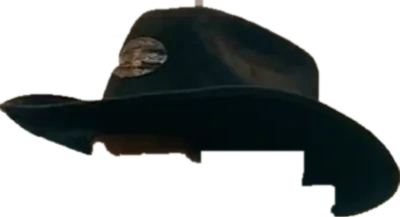
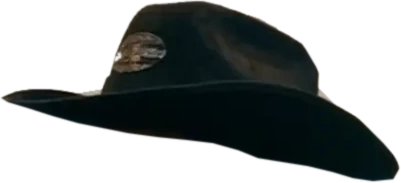
Beethoven: Hut mit glatter, vollständiger Kontur aus dem Film; Öffnungszeiten als Wochenübersicht (Montag bis Samstag, Sonntag)
Claude-Session: https://claude.ai/code/session_016LEtCX8K6LrUt1tXMGLenz

diff --git a/beethoven/index.html b/beethoven/index.html
@@ -69,11 +69,10 @@
 <!-- Spielplan: die Öffnungszeiten von heute -->
 <div class="spielplan" id="spielplan" role="dialog" aria-label="Öffnungszeiten heute" aria-hidden="true">
   <button class="sp-zu" id="sp-zu" type="button" aria-label="Spielplan schließen">✕</button>
-  <div class="sp-kopf">Spielplan · <span id="sp-tag">heute</span></div>
-  <div class="sp-zeit" id="sp-zeit">9 – 19 Uhr</div>
+  <div class="sp-kopf">Spielplan · Öffnungszeiten</div>
+  <ul class="sp-plan" id="sp-plan"><li data-tage="1,2,3,4,5,6"><span>Montag bis Samstag</span><b>9 – 19 Uhr</b></li><li data-tage="0"><span>Sonntag</span><b>Ruhetag</b></li></ul>
   <div class="sp-status" id="sp-status"><i></i><span>…</span></div>
   <div class="sp-tagbahn" aria-hidden="true"><span>9</span><div class="sp-bahn"><b id="sp-fuell"></b><i id="sp-jetzt"></i></div><span>19</span></div>
-  <ol class="sp-woche" id="sp-woche" aria-label="Wochenplan"></ol>
   <div class="sp-knoepfe">
     <a class="knopf voll" href="tel:+4968168629267">☎ Jetzt anrufen</a>
     <a class="knopf" href="https://www.google.com/maps/dir/?api=1&amp;destination=Beethoven+Barbershop+Dudweilerstra%C3%9Fe+53+66111+Saarbr%C3%BCcken" target="_blank" rel="noopener">Route</a>
@@ -89,7 +88,7 @@
 </div>
 
 <!-- Der Hut von Mr Fresh fällt durch die ganze Seite -->
-<button class="hut-reise" id="hut-reise" type="button" aria-label="Hut ab! Der Hut von Mr Fresh"><img id="hut-a" src="medien/foto/hut-film.webp" alt="" width="400" height="217"><img id="hut-b" src="medien/foto/hut-b.webp" alt="" width="700" height="420"></button>
+<button class="hut-reise" id="hut-reise" type="button" aria-label="Hut ab! Der Hut von Mr Fresh"><img id="hut-a" src="medien/foto/hut-film.webp" alt="" width="401" height="183"><img id="hut-b" src="medien/foto/hut-b.webp" alt="" width="700" height="420"></button>
 
 <main id="start">
 
@@ -372,13 +371,8 @@
           <div class="besuch-status" id="besuch-status"><i></i><span>…</span></div>
           <div class="adresse">Dudweilerstraße 53<br>66111 Saarbrücken</div>
           <ul class="zeiten" id="zeiten">
-            <li data-tag="1"><span>Montag</span><span>9–19 Uhr</span></li>
-            <li data-tag="2"><span>Dienstag</span><span>9–19 Uhr</span></li>
-            <li data-tag="3"><span>Mittwoch</span><span>9–19 Uhr</span></li>
-            <li data-tag="4"><span>Donnerstag</span><span>9–19 Uhr</span></li>
-            <li data-tag="5"><span>Freitag</span><span>9–19 Uhr</span></li>
-            <li data-tag="6"><span>Samstag</span><span>9–19 Uhr</span></li>
-            <li data-tag="0"><span>Sonntag</span><span>geschlossen</span></li>
+            <li data-tage="1,2,3,4,5,6"><span>Montag bis Samstag</span><span>9–19 Uhr</span></li>
+            <li data-tage="0"><span>Sonntag</span><span>Ruhetag</span></li>
           </ul>
           <div class="merkmale"><span>Mit und ohne Termin</span><span>Kartenzahlung</span><span>Kinderfreundlich</span><span>Rollstuhlgerechter Eingang</span></div>
           <div class="knoepfe">

diff --git a/beethoven/js/b.js b/beethoven/js/b.js
@@ -78,20 +78,19 @@ function lage(){
 }
 var sp=$('#spielplan'),spOffen=false,spAutoZu=null;
 (function baueWoche(){
-  var ol=$('#sp-woche');if(!ol)return;var reihe=[1,2,3,4,5,6,0];
-  reihe.forEach(function(t){var li=document.createElement('li');li.dataset.tag=t;li.setAttribute('aria-label',TAGE[t]+': '+(ZEITEN[t]?uhr(ZEITEN[t][0])+' bis '+uhr(ZEITEN[t][1]):'Ruhetag'));if(!ZEITEN[t])li.className='pause';li.innerHTML='<span>heute</span><b></b>';ol.appendChild(li)});
-  var tx=document.createElement('div');tx.className='sp-wochentext';tx.textContent='Montag bis Samstag 9 bis 19 Uhr · Sonntag Ruhetag';ol.after(tx);
+  /* auf den ersten Blick die ganze Woche: gleiche Zeiten werden zusammengefasst („Montag bis Samstag“) */
+  var reihe=[1,2,3,4,5,6,0],gruppen=[];
+  reihe.forEach(function(t){var z=ZEITEN[t],k=z?z.join('-'):'zu',g=gruppen[gruppen.length-1];if(g&&g.k===k)g.tage.push(t);else gruppen.push({k:k,z:z,tage:[t]})});
+  var html=gruppen.map(function(g){var n=g.tage.length>1?TAGE[g.tage[0]]+' bis '+TAGE[g.tage[g.tage.length-1]]:TAGE[g.tage[0]];return '<li data-tage="'+g.tage.join(',')+'"><span>'+n+'</span><b>'+(g.z?uhr(g.z[0]).replace(' Uhr','')+' – '+uhr(g.z[1]):'Ruhetag')+'</b></li>'}).join('');
+  var pl=$('#sp-plan');if(pl)pl.innerHTML=html;
 })();
 function zeitenMalen(){
   var L=lage(),b=L.b;
-  $('#sp-tag').textContent=TAGE[b.tag];
-  $('#sp-zeit').textContent=L.z?uhr(L.z[0]).replace(' Uhr','')+' – '+uhr(L.z[1]):'Ruhetag';
   [['#sp-status',L.lang],['#besuch-status',L.lang],['#status-pille',L.pille],['#leiste-status',L.kurz]].forEach(function(p){var el=$(p[0]);if(!el)return;el.classList.toggle('ja',L.auf);el.lastElementChild.textContent=p[1]});
   var fuell=L.z?klemm((b.min-L.z[0])/(L.z[1]-L.z[0]),0,1):0;
   if(spOffen){$('#sp-fuell').style.width=(fuell*100)+'%';$('#sp-jetzt').style.left=(fuell*100)+'%'}
   $('#sp-jetzt').style.opacity=L.auf?1:.35;
-  $$('#sp-woche li').forEach(function(li){li.classList.toggle('heute',+li.dataset.tag===b.tag)});
-  $$('#zeiten li').forEach(function(li){li.classList.toggle('heute',+li.dataset.tag===b.tag)});
+  $$('#sp-plan li,#zeiten li').forEach(function(li){li.classList.toggle('heute',(li.dataset.tage||'').split(',').indexOf(String(b.tag))>=0)});
   sp._fuell=fuell;
 }
 zeitenMalen();setInterval(zeitenMalen,30000);
@@ -233,8 +232,8 @@ function punkteLauf(st){
 })();
 
 /* ===================== Der Hut von Mr Fresh reist durch die Seite ===================== */
-var HUT={el:$('#hut-reise'),ziele:[],klick:-9e9,feier:-9e9,blase:null,zuletzt:'',asp:217/400};
-var HUT_IM_FILM={x:.73485,y:.2024,w:.2083}; /* Lage des echten Huts im letzten Bild der „Neunten“ (Ausschnitt hut-film.webp) */
+var HUT={el:$('#hut-reise'),ziele:[],klick:-9e9,feier:-9e9,blase:null,zuletzt:'',asp:183/401};
+var HUT_IM_FILM={x:.7357,y:.1754,w:.2089}; /* Lage des echten Huts im letzten Bild der „Neunten“ (Ausschnitt hut-film.webp) */
 function hutGroesse(){return klemm(innerWidth*.08,64,120)*(innerWidth<520?.9:1)}
 function hutZiele(){
   var z=[];

diff --git a/beethoven/css/b.css b/beethoven/css/b.css
@@ -393,7 +393,7 @@ h2 em,h1 em{font-style:italic;color:var(--gold-hell)}
 .zeiten{list-style:none;padding:0;margin:20px 0 0;max-width:440px}
 .zeiten li{display:flex;justify-content:space-between;padding:10px 0;border-bottom:1px solid var(--linie);font-variant-numeric:tabular-nums}
 .zeiten li.heute{color:var(--gold-hell);font-weight:600}
-.zeiten li.heute span:first-child::after{content:" · heute";color:var(--gold);font-weight:400}
+
 .merkmale{display:flex;flex-wrap:wrap;gap:8px;margin-top:20px}
 .merkmale span{border:1px solid var(--linie);border-radius:999px;padding:6px 12px;font-size:14px;color:var(--rauch)}
 .karte-platz{aspect-ratio:4/3;border:1px solid var(--linie);border-radius:4px;display:grid;place-items:center;text-align:center;padding:24px;background:linear-gradient(135deg,var(--lack-2),var(--bordeaux-tief))}
@@ -577,3 +577,16 @@ body{position:relative}
   .foyer-knoepfe{gap:8px;margin-top:12px}
   .foyer-knoepfe .knopf{padding:10px 13px;font-size:13px}
 }
+
+.sp-plan{list-style:none;margin:10px 0 0;padding:0;display:grid;gap:2px}
+.sp-plan li{display:flex;justify-content:space-between;align-items:baseline;gap:14px;padding:7px 0;border-bottom:1px solid var(--linie);font-family:var(--display);font-size:21px;color:var(--creme)}
+.sp-plan li b{font-weight:500;color:var(--gold-hell);font-variant-numeric:lining-nums;white-space:nowrap}
+.sp-plan li span{display:inline-flex;align-items:center;gap:8px}
+.zeiten li.heute span:first-child::after{content:"heute";font-family:var(--text);font-size:10px;font-weight:600;letter-spacing:.14em;text-transform:uppercase;color:var(--lack);background:var(--gold);padding:2px 7px;border-radius:999px;margin-left:8px;vertical-align:middle}
+.sp-status{margin-top:12px}
+@media (max-width:900px){.sp-plan li{font-size:19px;padding:5px 0}}
+.sp-plan li span{white-space:nowrap}
+.sp-plan li.heute span,.sp-plan li.heute b{color:var(--gold-hell)}
+.sp-plan li.heute span::before{content:"";width:8px;height:8px;border-radius:50%;background:var(--gold-hell);box-shadow:0 0 10px var(--gold);flex:none}
+.sp-plan li:not(.heute) span::before{content:"";width:8px;height:8px;flex:none}
+@media (max-width:420px){.sp-plan li{font-size:18px}}
